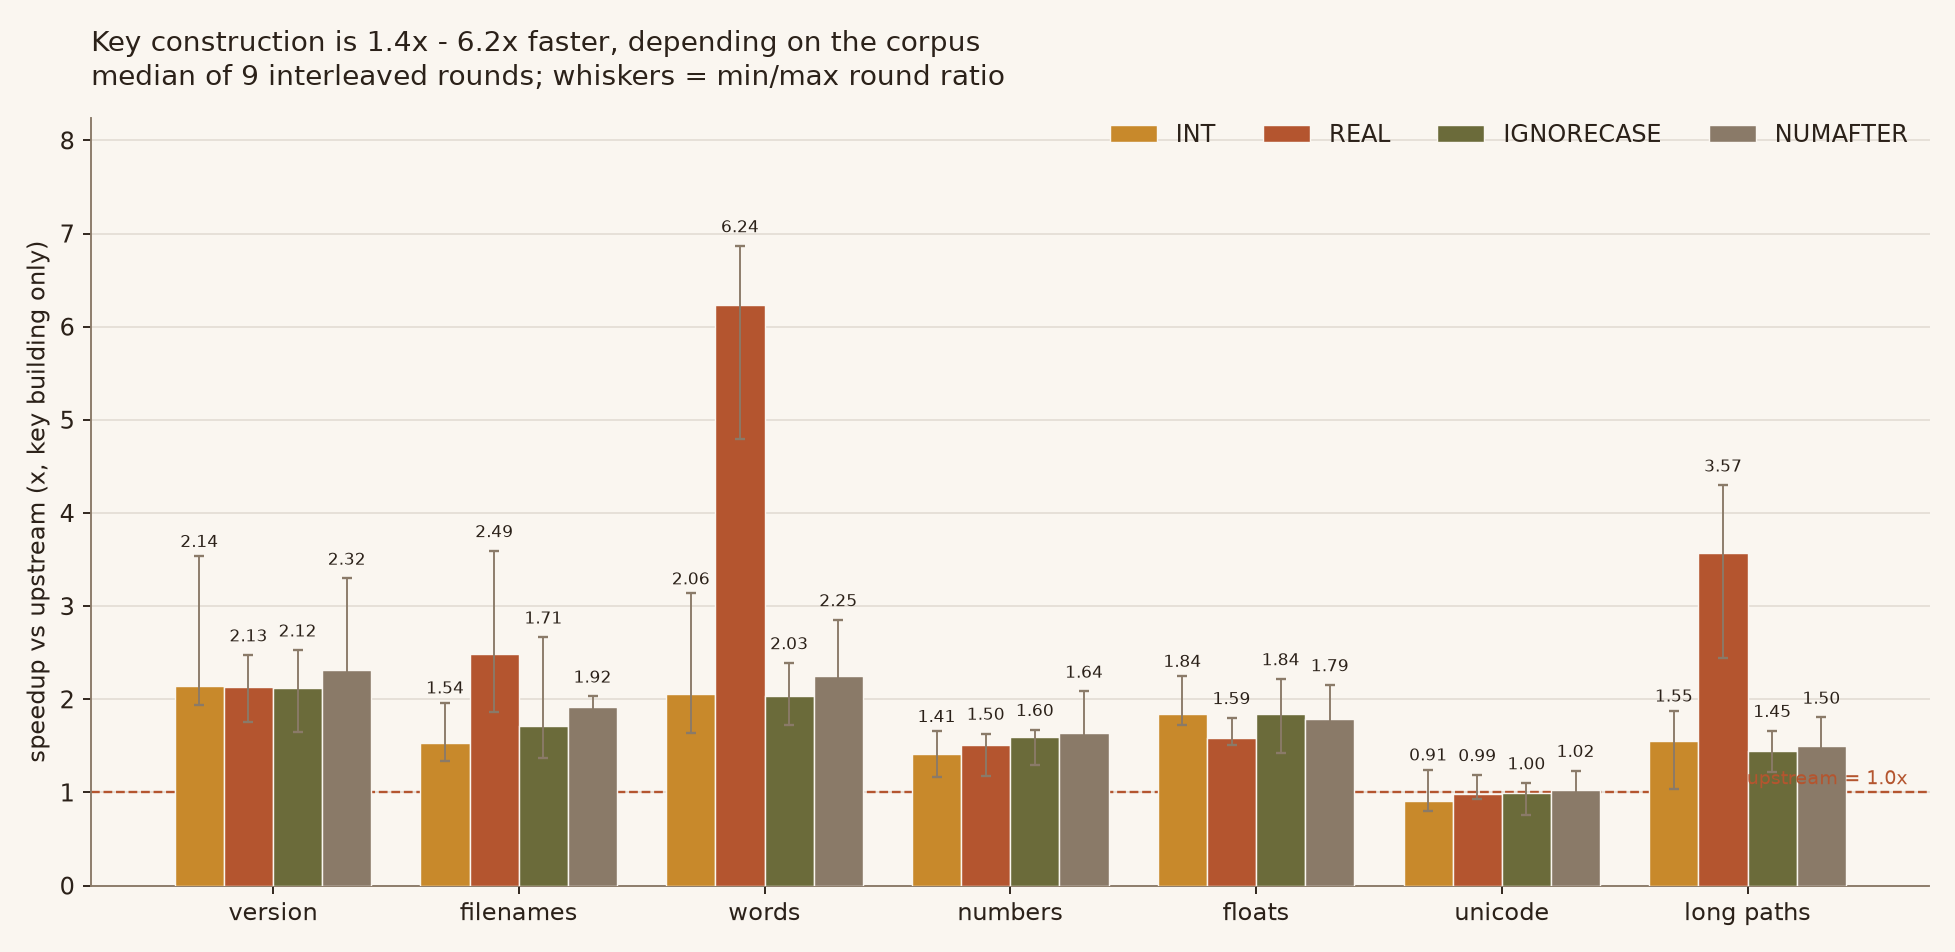
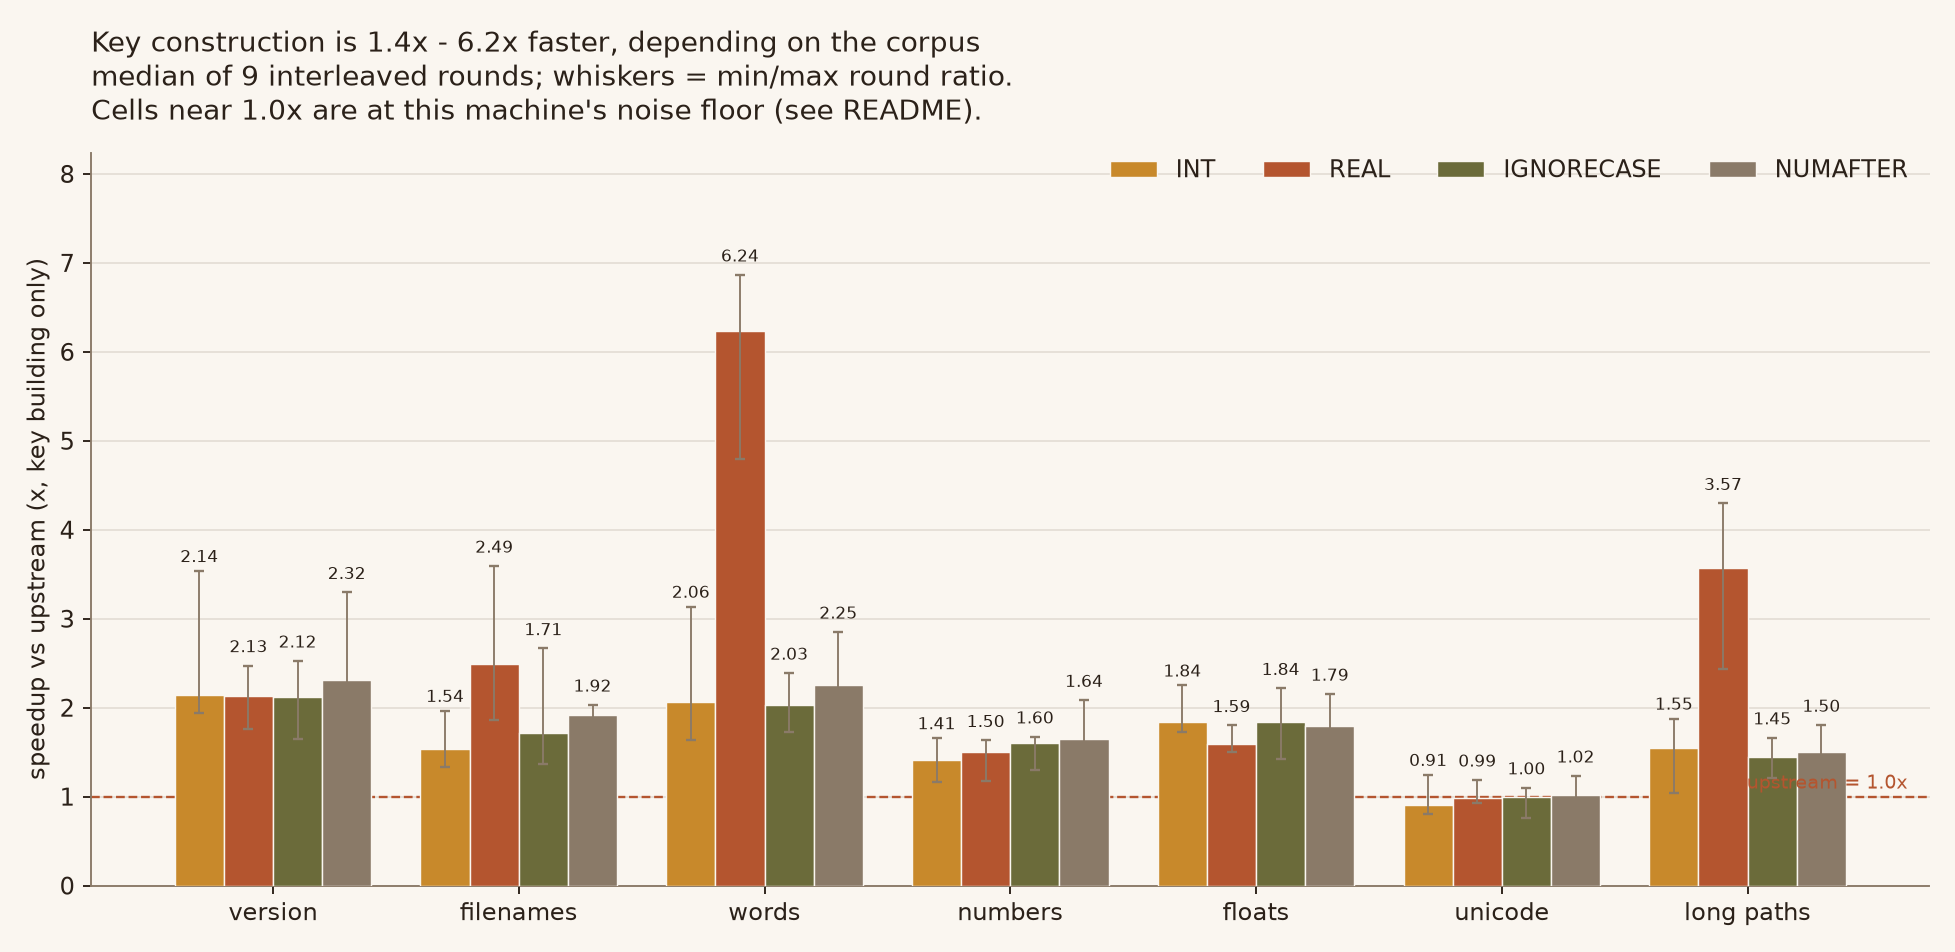
Note the noise floor on the speedup chart itself
The chart's title range is derived from the data, so it reads 1.4x-6.2x while
the README now reports the reliable claim as roughly 1.5x-6x. That is not a
contradiction, but a reader landing on the figure first had no way to know it.

One added line states that cells near 1.0x sit at this machine's noise floor
and points at the README, which carries the A/A control numbers. The title
range is still computed from the results rather than typed in, so it cannot
drift from them.

diff --git a/assets/make_figures.py b/assets/make_figures.py
@@ -130,7 +130,8 @@ def fig_speedup() -> None:
     ax.set_title(
         f"Key construction is {low:.1f}x - {high:.1f}x faster,"
         " depending on the corpus\n"
-        "median of 9 interleaved rounds; whiskers = min/max round ratio",
+        "median of 9 interleaved rounds; whiskers = min/max round ratio.\n"
+        "Cells near 1.0x are at this machine's noise floor (see README).",
         loc="left",
         fontsize=12,
         pad=14,
